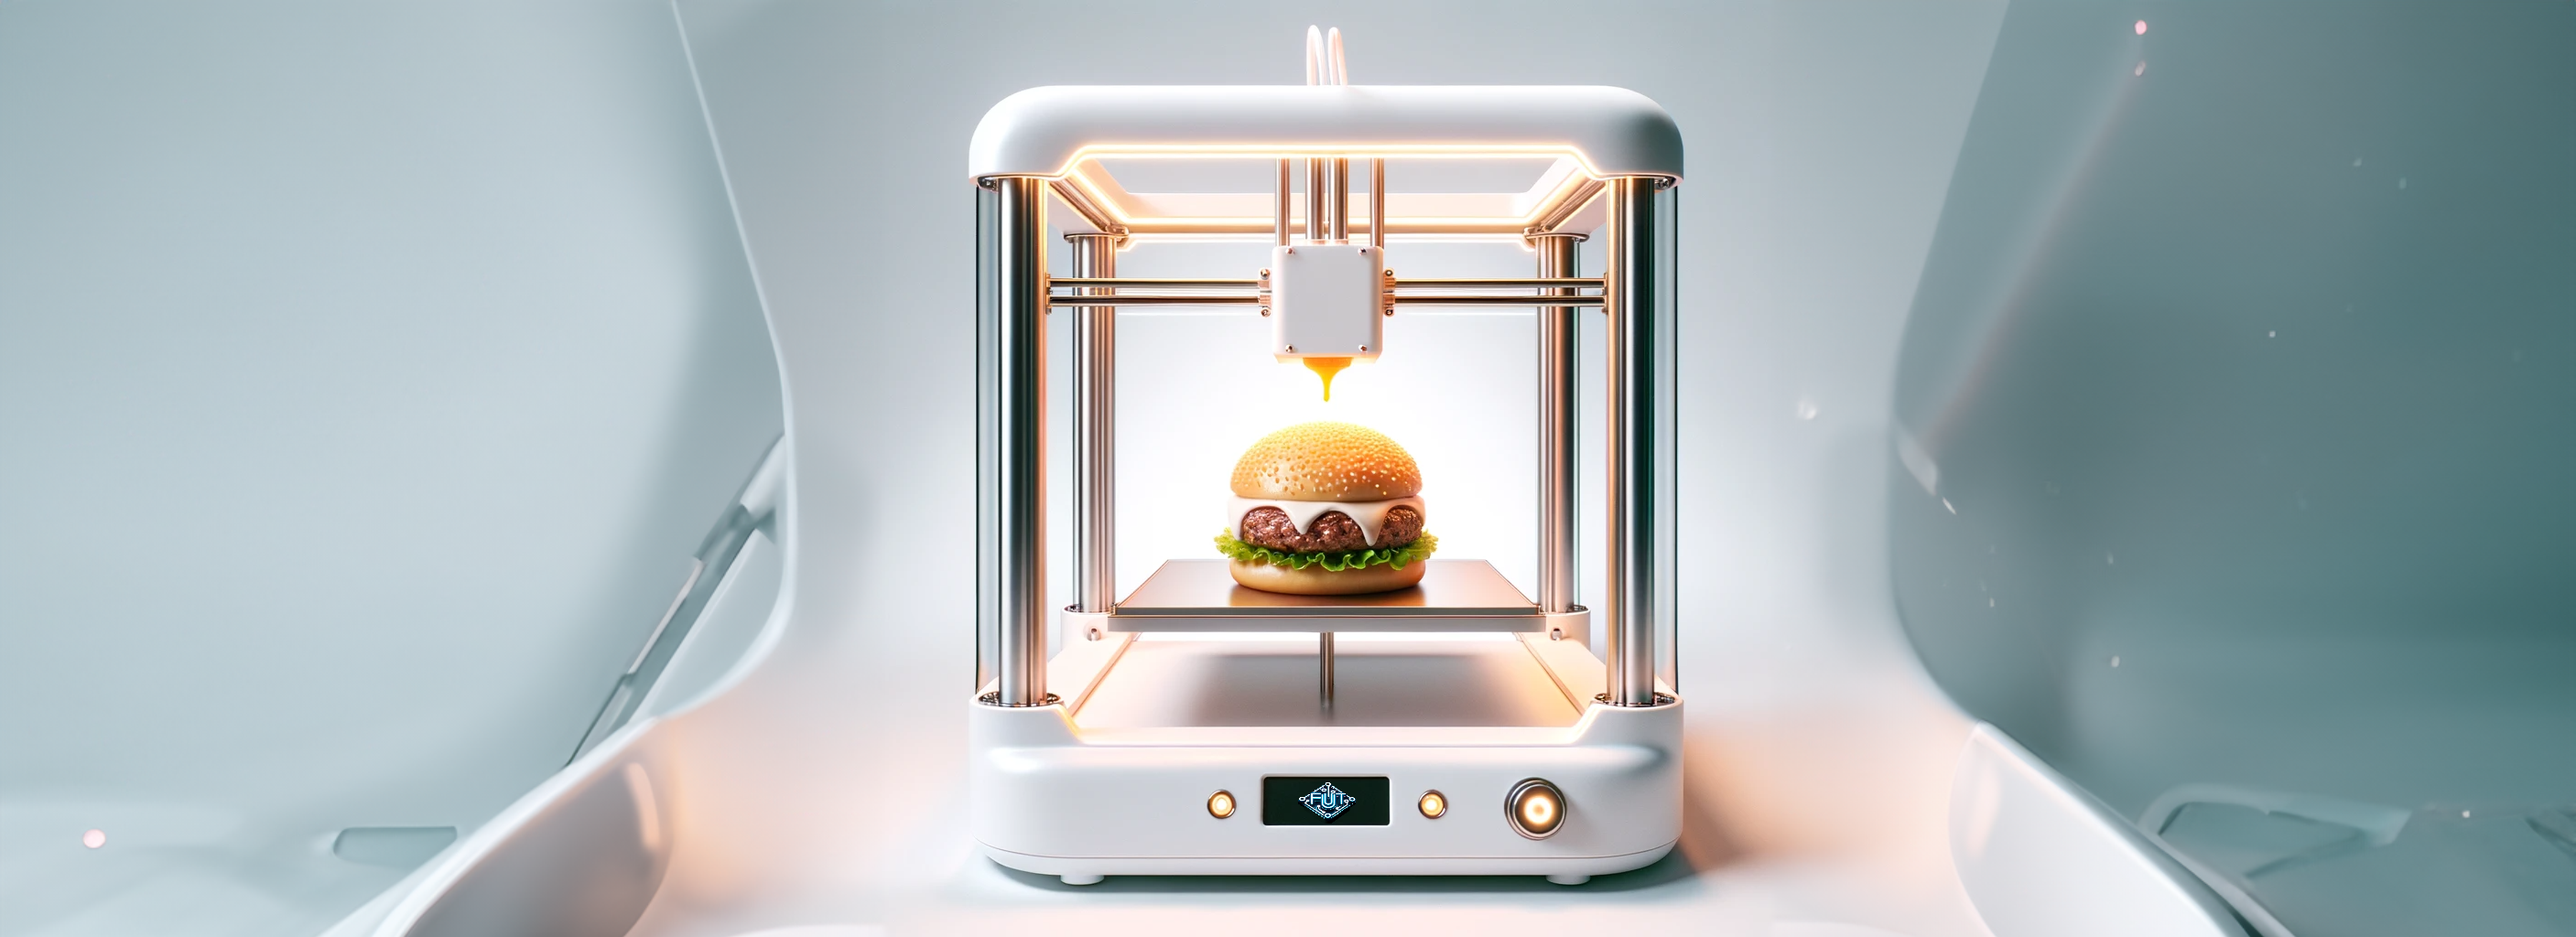
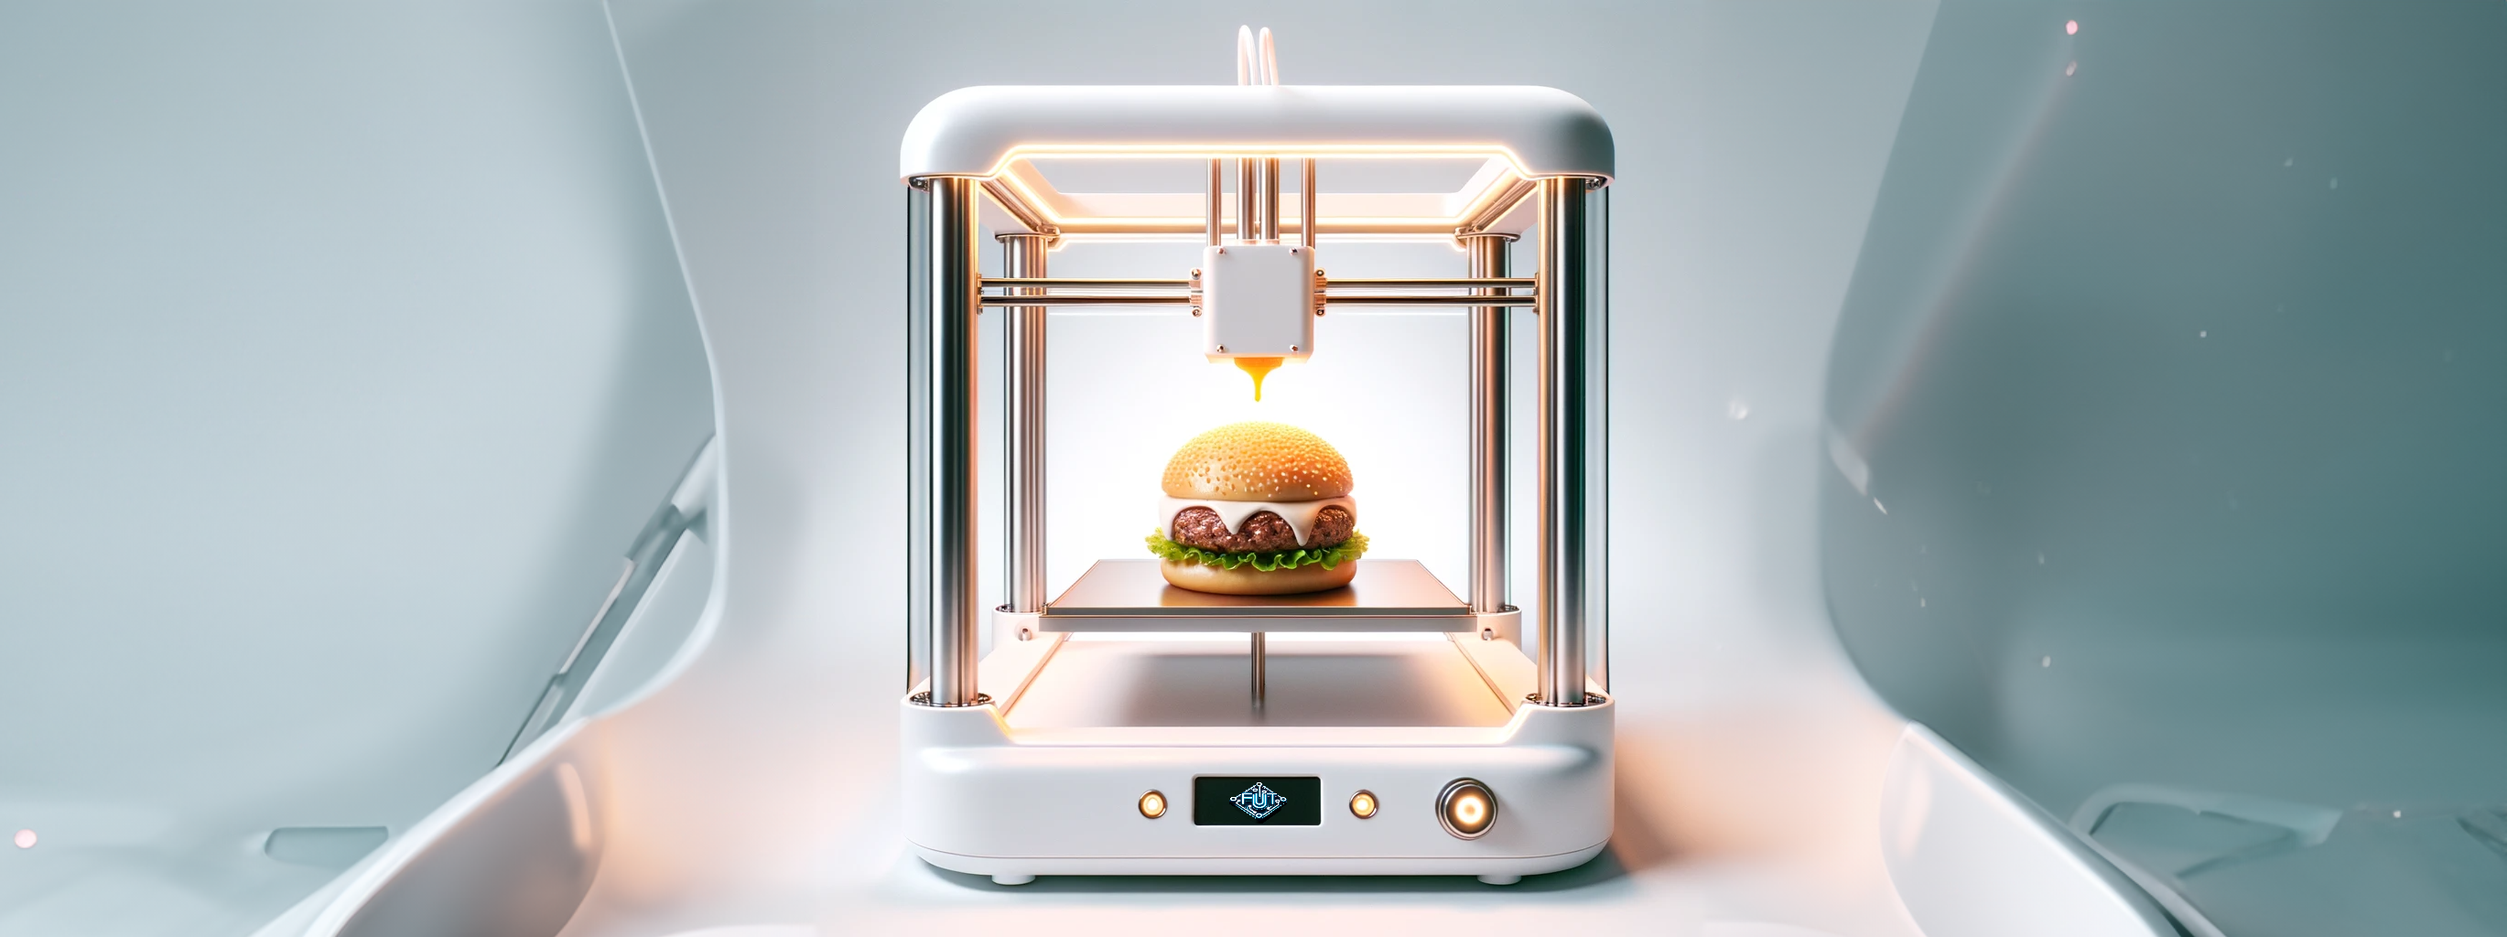
change the hero image size by resize it in photoshop and uploaded again

diff --git a/index.html b/index.html
@@ -46,11 +46,11 @@
       <label for="nav-toggle" class="nav-toggle-label"><i class="fa-solid fa-bars"></i></label>
       <nav>
         <ul id="menu">
-          <li><a href="" class="active">Home</a></li>
-          <li><a href="technology.html" class="active">Technology</a></li>
-          <li><a href="products.html" class="active">Products</a></li>
-          <li><a href="contact.html" class="active">Contact</a></li>
-          <li><a href="singup.html" class="active">Sign UP</a></li>
+          <li><a href="index.html" class="active">Home</a></li>
+          <li><a href="technology.html">Technology</a></li>
+          <li><a href="products.html">Products</a></li>
+          <li><a href="contact.html">Contact</a></li>
+          <li><a href="singup.html">Sign UP</a></li>
         </ul>
       </nav>
     </header>

diff --git a/assets/css/style.css b/assets/css/style.css
@@ -95,8 +95,8 @@ main {
 
 /* Hero section */
 #hero {
-    height: 600px;
-    weight: 100%;
+    height: 1000px;
+    width: 100%;
     background: url("../images/hero-image.png") no-repeat center center/cover;
     position: relative;
 }
@@ -164,6 +164,12 @@ main {
 
     main {
         margin-top: 75px;
+    }
+
+    /* Hero */
+    #cover-text {
+        width: 300px;
+        right: 50px;
     }
 
 }
